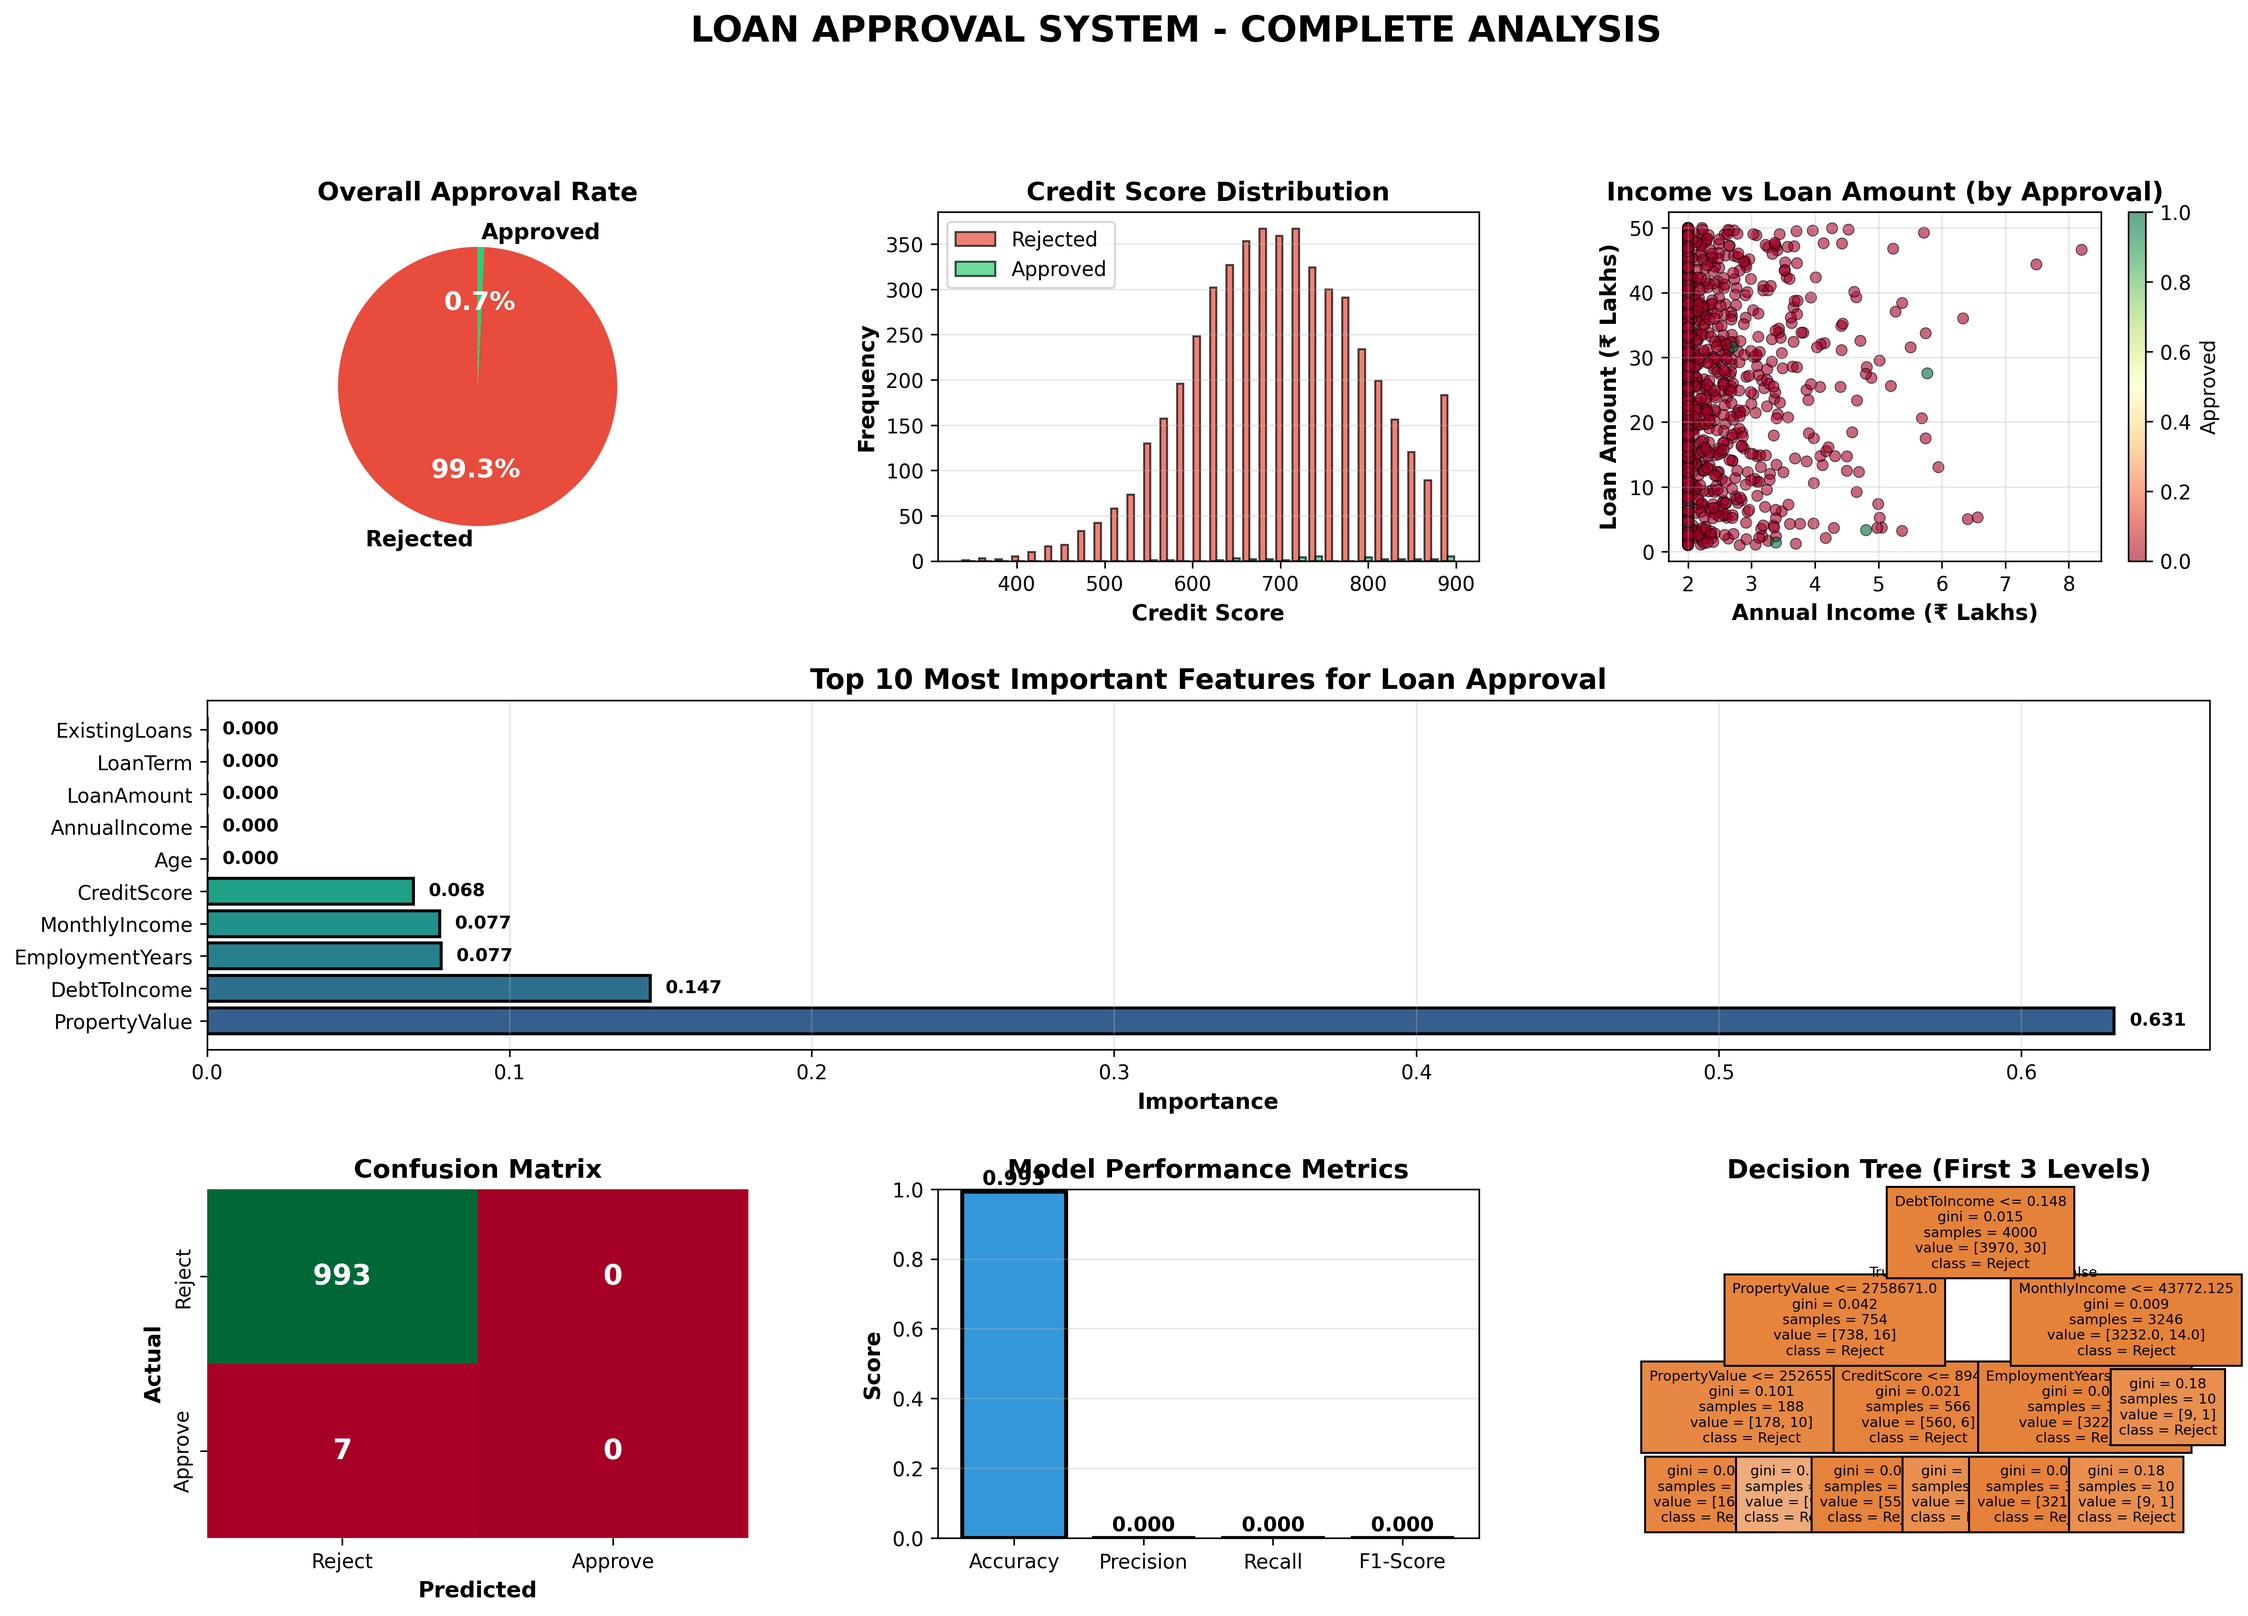
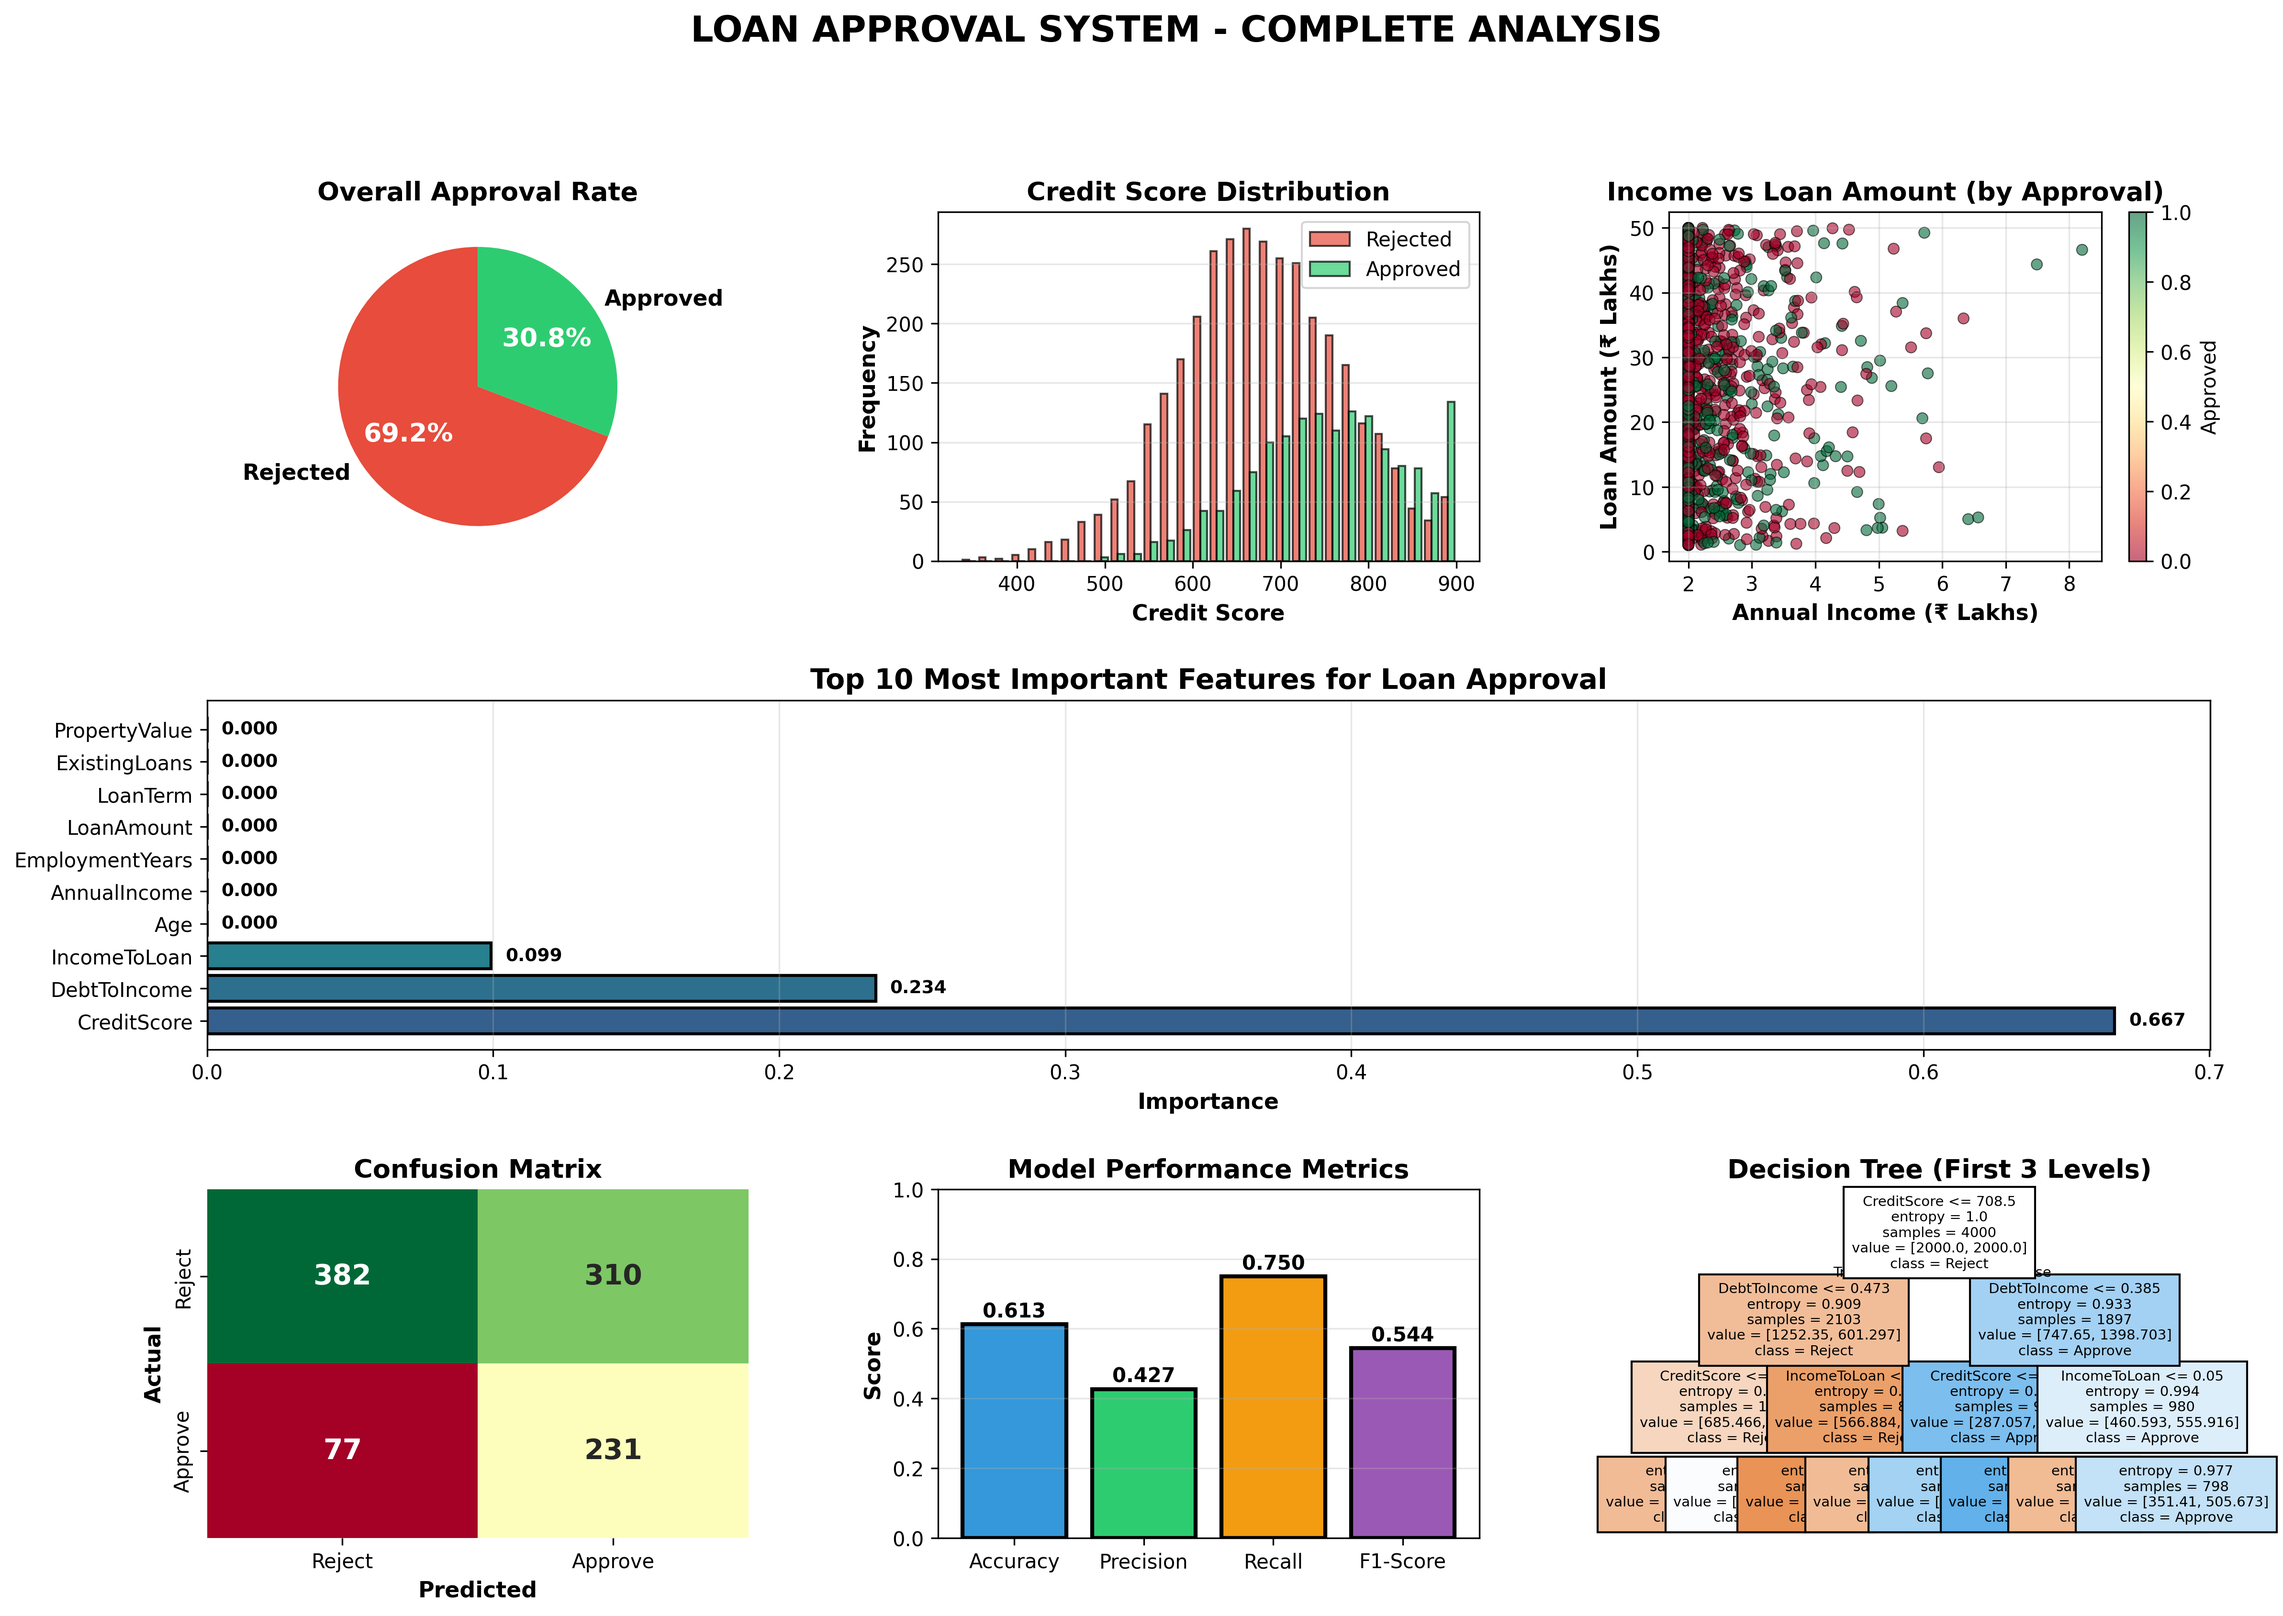
Added Week 2 AI Business Intelligence capstone

diff --git a/Week2_Classical_ML/Day11_Decision_Trees/01_decision_tree_concepts.py b/Week2_Classical_ML/Day11_Decision_Trees/01_decision_tree_concepts.py
@@ -89,7 +89,7 @@ Two Popular Methods:
 ALGORITHM PICKS: Question that gives LOWEST impurity after split!
 """)
 
-# VISULA DEMONSTARTION
+# VISUAL DEMONSTARTION
 
 print("\n" + "="*70)
 print("VISUAL DEMONSTRATION")
@@ -139,3 +139,131 @@ plt.tight_layout()
 plt.savefig('01_decision_tree_visualization.png', dpi=300, bbox_inches='tight')
 plt.close()
 print("✅ Saved: 01_decision_tree_visualization.png")
+
+# ADVANTAGES & DISADVANTAGES
+
+print("\n" + "="*70)
+print("DECISION TREES: PROS & CONS")
+print("="*70)
+
+print("""
+✅ ADVANTAGES:
+━━━━━━━━━━━━━━━━━━━━━━━━━━━━━━━━━
+
+1. EASY TO UNDERSTAND & INTERPRET
+   → Can draw the tree and explain to non-technical stakeholders
+   → "Why was loan rejected? Because income < ₹50K AND age < 25"
+
+2. NO DATA PREPROCESSING NEEDED
+   → Works with different scales (no standardization!)
+   → Handles missing values well
+   → Works with categorical data directly
+
+3. HANDLES NON-LINEAR RELATIONSHIPS
+   → Can capture complex patterns
+   → Unlike linear/logistic regression
+
+4. FEATURE IMPORTANCE
+   → Automatically tells you which features matter most
+   → Great for feature selection
+
+5. WORKS FOR CLASSIFICATION & REGRESSION
+   → Same algorithm, different tasks
+
+
+❌ DISADVANTAGES:
+━━━━━━━━━━━━━━━━━━━━━━━━━━━━━━━━━
+
+1. OVERFITTING (BIGGEST PROBLEM!)
+   → Without limits, tree memorizes training data
+   → Poor generalization to test data
+   
+   Solution: Hyperparameter tuning
+   • max_depth: Limit tree depth
+   • min_samples_split: Minimum samples to split
+   • min_samples_leaf: Minimum samples in leaf
+
+2. UNSTABLE
+   → Small changes in data → Completely different tree
+   
+   Solution: Use ensemble methods (Random Forest, tomorrow!)
+
+3. BIASED TOWARD FEATURES WITH MORE CATEGORIES
+   → Feature with 100 values favored over feature with 2 values
+   
+   Solution: Use Random Forest or balanced splitting
+
+4. NOT GREAT FOR LINEAR RELATIONSHIPS
+   → Approximates straight line with stairs
+   
+   When to use Linear Regression instead: If relationship is clearly linear
+
+
+WHEN TO USE DECISION TREES:
+━━━━━━━━━━━━━━━━━━━━━━━━━━━━━━━━━
+
+✅ Use When:
+- Need interpretable model (explain to business)
+- Non-linear relationships
+- Mixed data types (numerical + categorical)
+- Feature importance matters
+- Quick prototyping
+
+❌ Avoid When:
+- Need very high accuracy (use ensemble instead)
+- Linear relationships (use Linear/Logistic Regression)
+- High-dimensional sparse data (use Naive Bayes/SVM)
+""")
+
+# KEY HYPERPARAMETERS
+
+print("\n" + "="*70)
+print("KEY HYPERPARAMETERS (Prevent Overfitting)")
+print("="*70)
+
+hyperparams = """
+MOST IMPORTANT HYPERPARAMETERS:
+━━━━━━━━━━━━━━━━━━━━━━━━━━━━━━━━━
+
+1. max_depth (default: None)
+   → Maximum depth of tree
+   → Higher = more complex (overfitting risk)
+   → Start with: 3-10 for most problems
+   
+2. min_samples_split (default: 2)
+   → Minimum samples required to split a node
+   → Higher = simpler tree
+   → Start with: 20-50
+   
+3. min_samples_leaf (default: 1)
+   → Minimum samples required in a leaf
+   → Higher = smoother boundaries
+   → Start with: 10-30
+   
+4. max_features (default: None)
+   → Number of features to consider for best split
+   → Lower = more randomness (good!)
+   → Use: 'sqrt' for classification, 'log2' also good
+   
+5. criterion (default: 'gini')
+   → 'gini' or 'entropy'
+   → Gini is faster, entropy slightly more accurate
+   → In practice: Not much difference
+
+TUNING STRATEGY:
+━━━━━━━━━━━━━━━━━━━━━━━━━━━━━━━━━
+
+Start Simple → Add Complexity:
+
+Step 1: max_depth=3 (simple tree)
+Step 2: If underfitting, increase to 5, 7, 10
+Step 3: If overfitting, add min_samples_split=20
+Step 4: Add min_samples_leaf=10
+Step 5: Use cross-validation to find best combo
+"""
+
+print(hyperparams)
+
+print("\n" + "="*70)
+print("SESSION 1 COMPLETE: Concepts Understood!")
+print("="*70)

diff --git a/Week2_Classical_ML/Day11_Decision_Trees/03_loan_approval_system.py b/Week2_Classical_ML/Day11_Decision_Trees/03_loan_approval_system.py
@@ -85,21 +85,22 @@ dependents = np.random.poisson(1, n_applications).clip(0, 5)
 
 # Calculate approval probability (realistic business logic)
 approval_logit = (
-    -5.0 +
+    -1.5 +
     0.03 * (age - 30) +  # Age matters (sweet spot 30-50)
-    0.000002 * annual_income +  # Higher income = better
-    0.05 * employment_years +  # Stable employment
-    0.008 * (credit_score - 600) +  # Credit score critical
-    -4 * debt_to_income +  # High DTI = risky
-    -0.3 * existing_loans +  # Too many loans = risky
-    -0.0000005 * loan_amount +  # Large loans = higher risk
-    0.5 * education +  # Education helps
-    0.3 * marital_status +  # Married = stable
-    -0.2 * dependents  # More dependents = expenses
+    0.000003 * annual_income +  # Higher income = better
+    0.06 * employment_years +  # Stable employment
+    0.010 * (credit_score - 600) +  # Credit score critical
+    -2.5 * debt_to_income +  # High DTI = risky
+    -0.25 * existing_loans +  # Too many loans = risky
+    -0.0000003 * loan_amount +  # Large loans = higher risk
+    0.4 * education +  # Education helps
+    0.25 * marital_status +  # Married = stable
+    -0.15 * dependents  # More dependents = expenses
 )
 
 approval_probability = 1 / (1 + np.exp(-approval_logit))
-loan_approved = (approval_probability > np.random.uniform(0, 1, n_applications)).astype(int)
+loan_approved = np.random.binomial(1, approval_probability)
+#loan_approved = (approval_probability > np.random.uniform(0, 1, n_applications)).astype(int)
 
 # Create DataFrame
 df = pd.DataFrame({
@@ -202,12 +203,13 @@ print("🔍 Testing combinations of hyperparameters...")
 print(f"Total combinations: {len(param_grid['max_depth']) * len(param_grid['min_samples_split']) * len(param_grid['min_samples_leaf']) * len(param_grid['criterion'])}")
 
 # Grid Search with Cross-Validation
-tree_model = DecisionTreeClassifier(random_state=42)
+tree_model = DecisionTreeClassifier(class_weight='balanced', random_state=42)
 grid_search = GridSearchCV(
     tree_model,
     param_grid,
     cv=5,
-    scoring='f1',  # Balance precision and recall
+    scoring='recall',
+    #scoring='f1',  # Balance precision and recall
     n_jobs=-1, # This parameter tells the function to use all available CPU cores to run the different parameter combinations in parallel, significantly speeding up the search process.
     verbose=1 # : This controls how much information is printed to the console during execution. A value of 1 provides basic progress updates. 
 )
@@ -232,6 +234,7 @@ print("="*80)
 # Predictions
 y_pred_train = best_tree.predict(X_train)
 y_pred_test = best_tree.predict(X_test)
+
 
 # Metrics
 train_acc = accuracy_score(y_train, y_pred_train)
